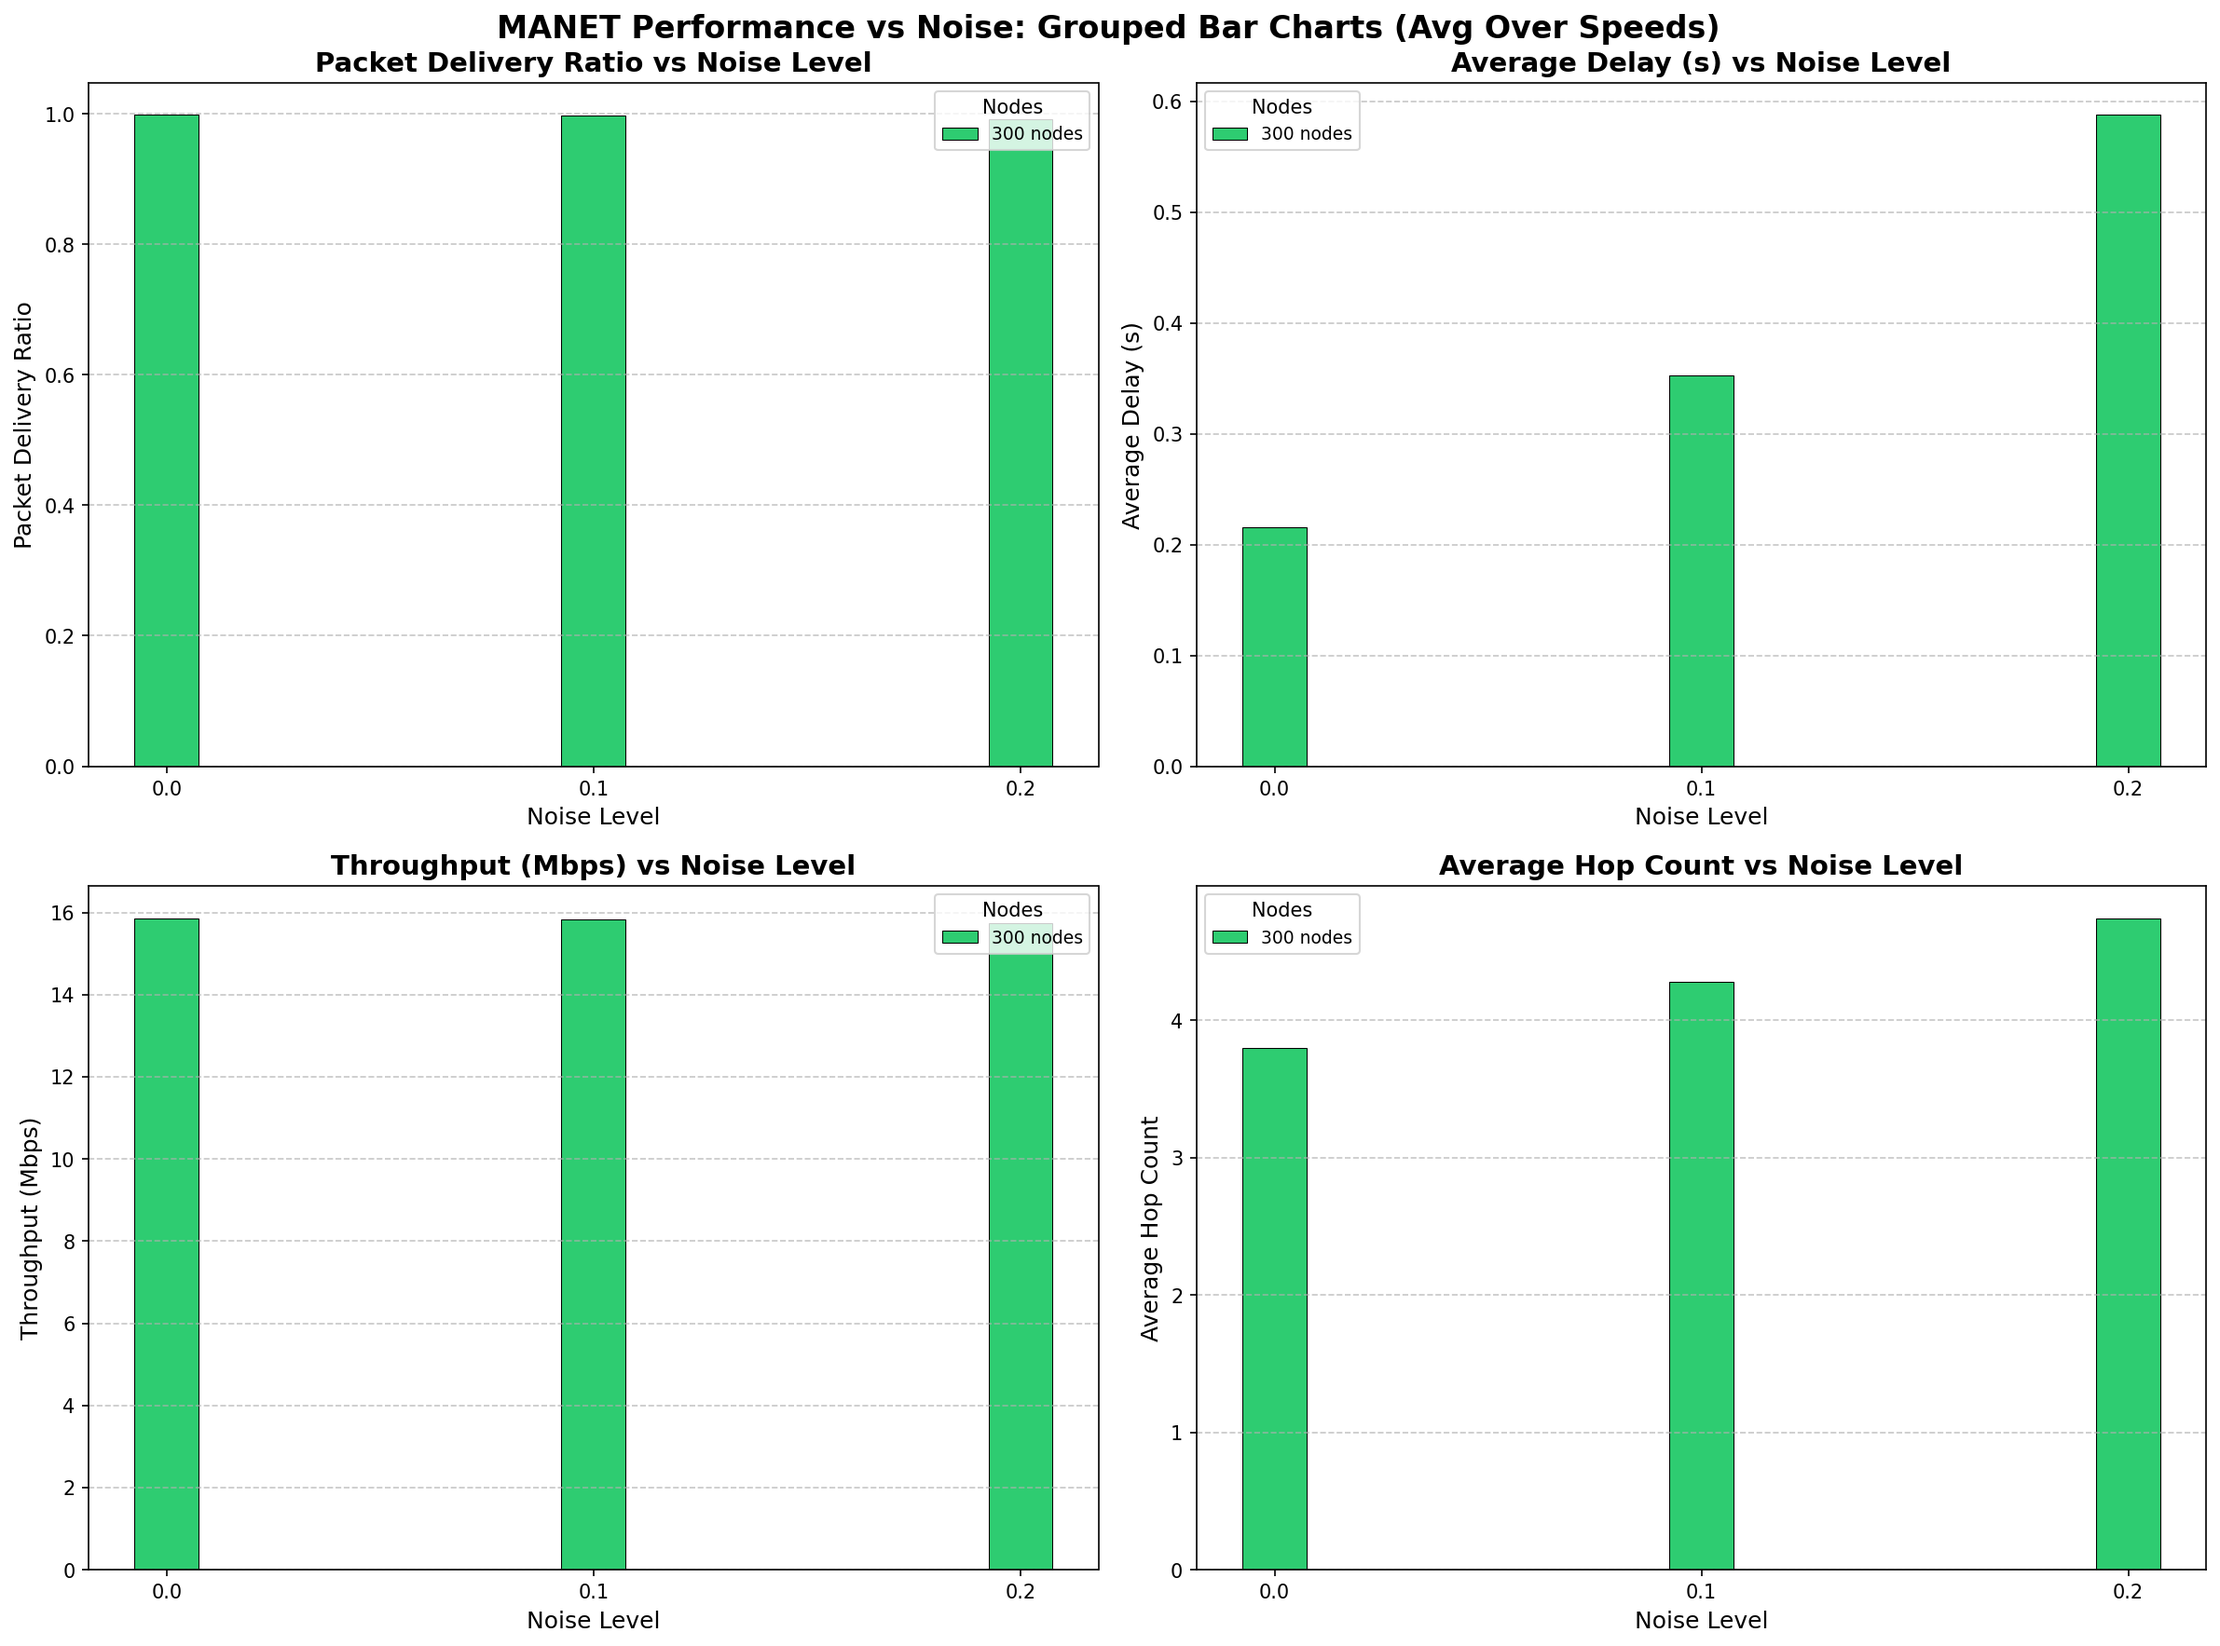
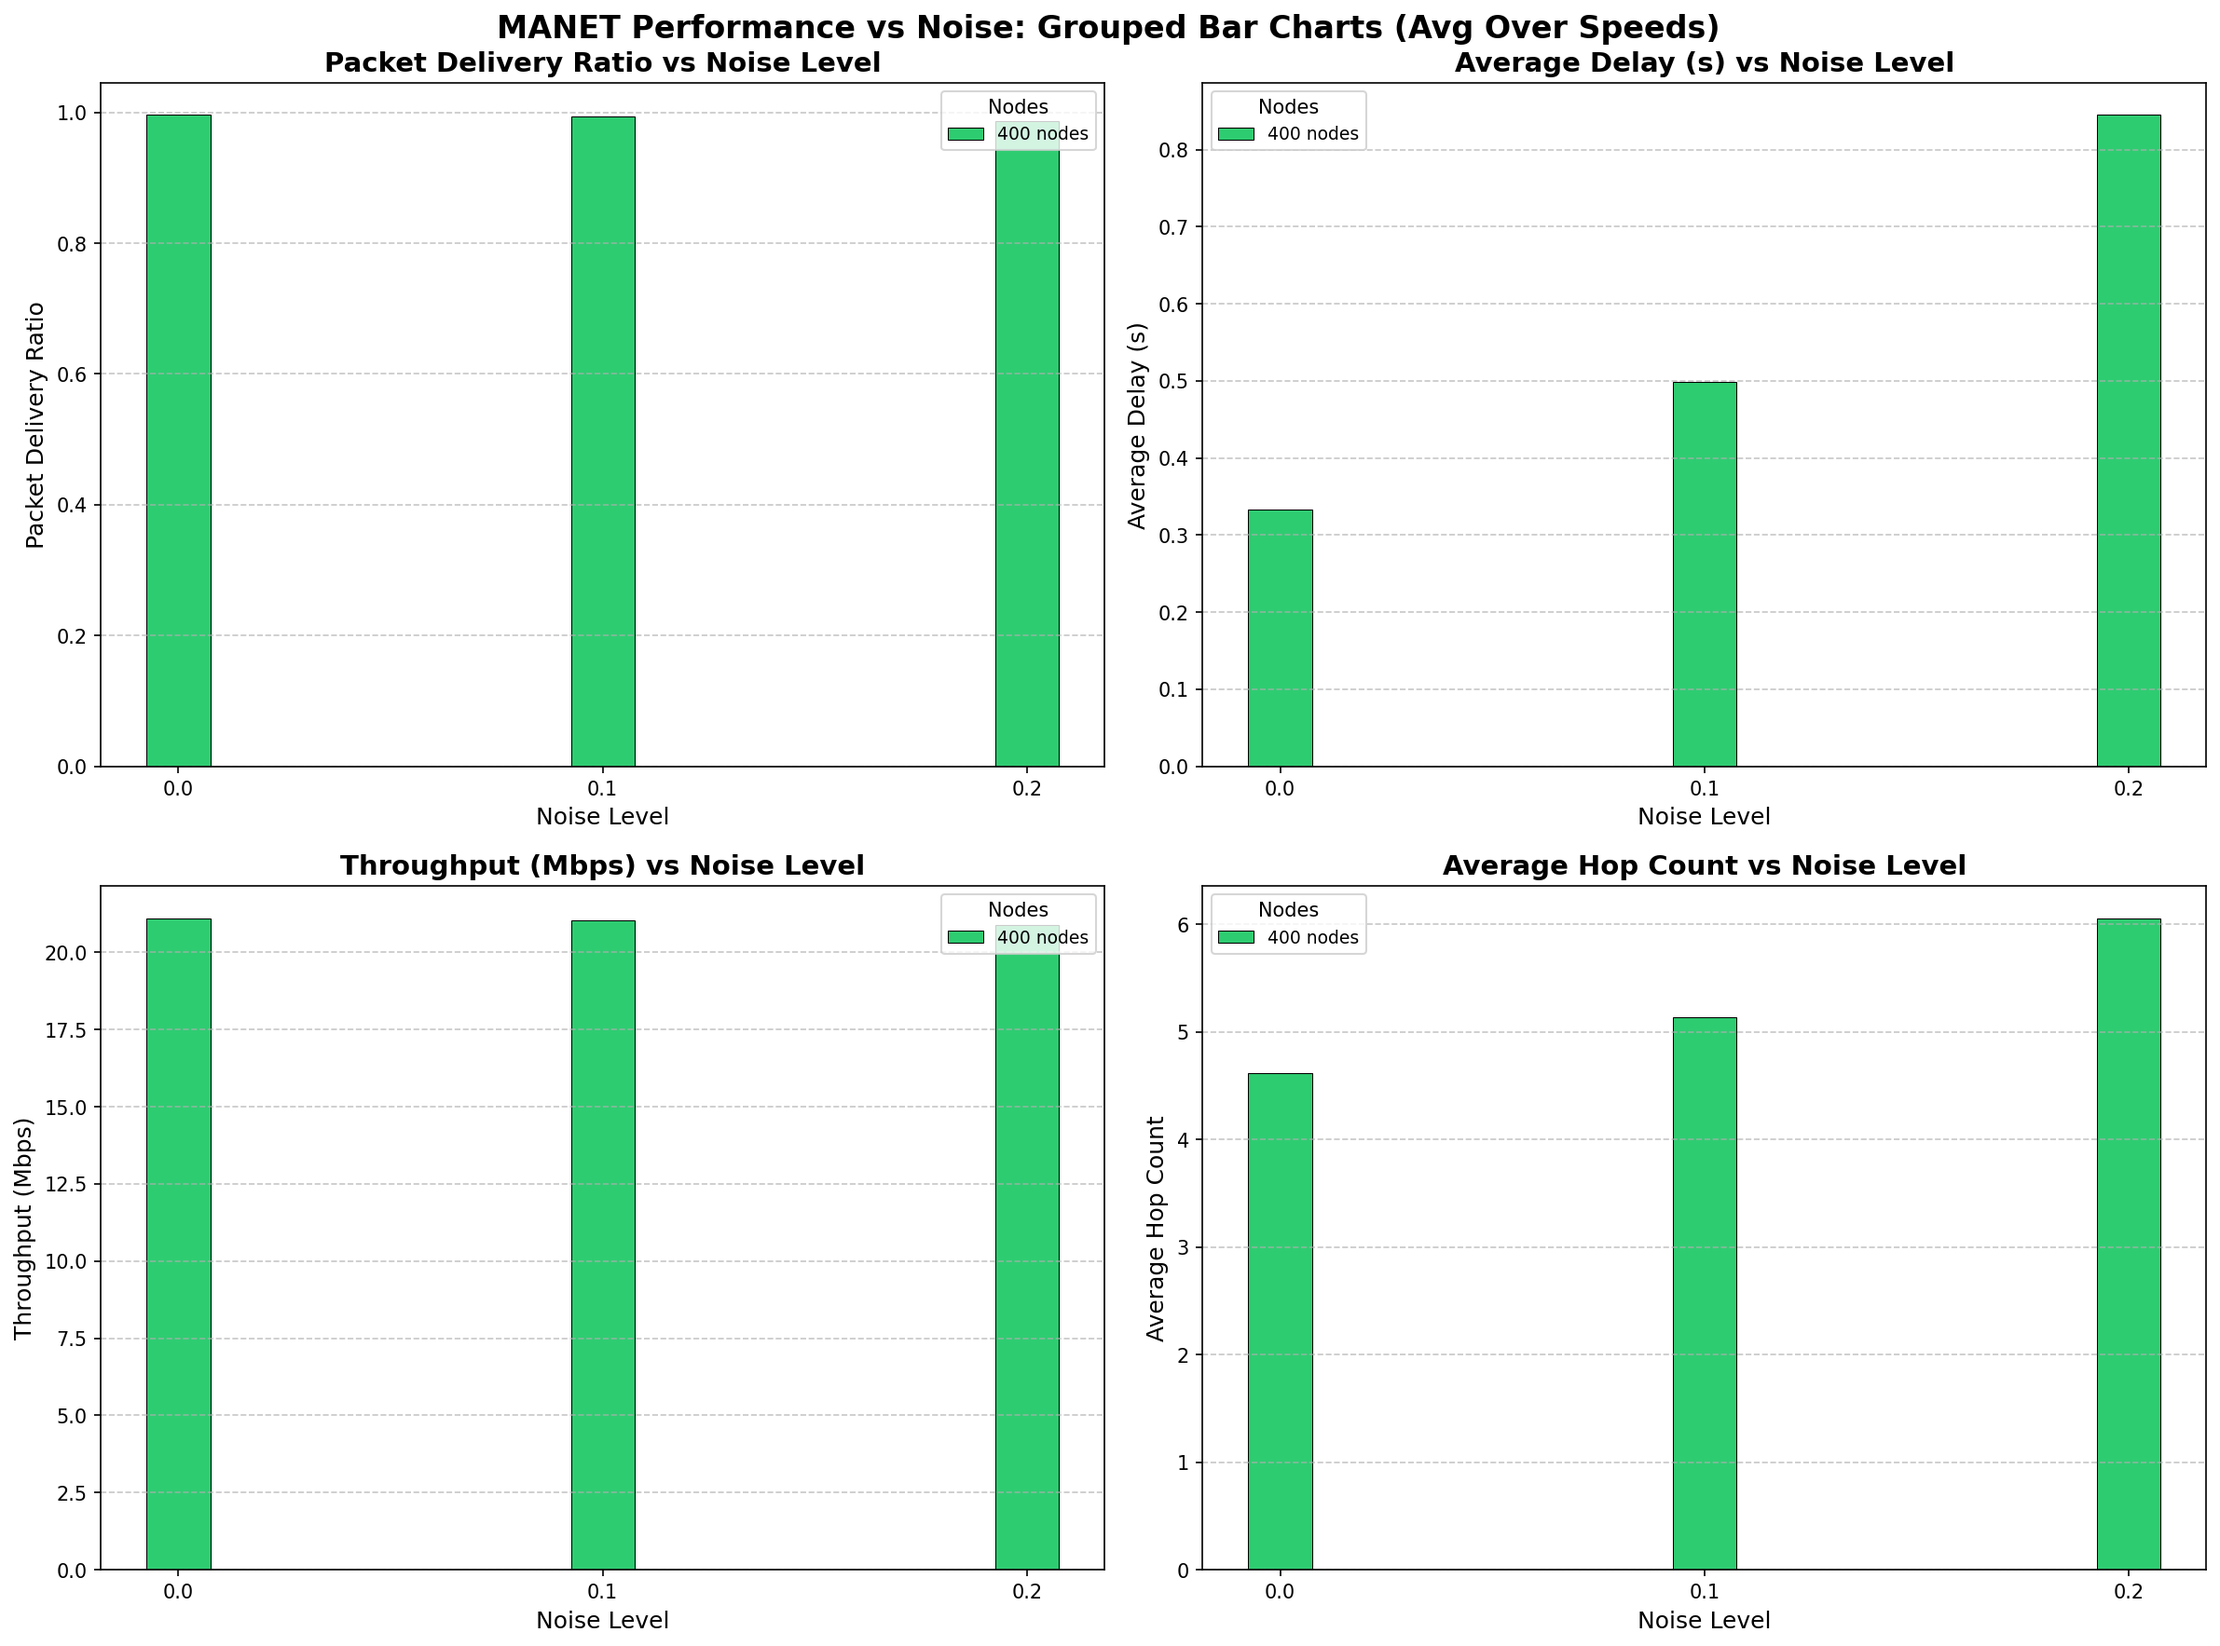
300 node simulation results

diff --git a/manet_06_experiments.py b/manet_06_experiments.py
@@ -623,7 +623,7 @@ def run_single_experiment(n_nodes, node_speed, num_steps=50, noise_level=0.0):
 
 def run_all_experiments():
     """Run experiments for all node counts, speeds, and noise levels."""
-    node_counts = [300]
+    node_counts = [400]
     speeds = [20,30,40]
     noise_levels = [0.0,0.1,0.2]
     num_steps = 100  # More steps for accurate throughput measurement
